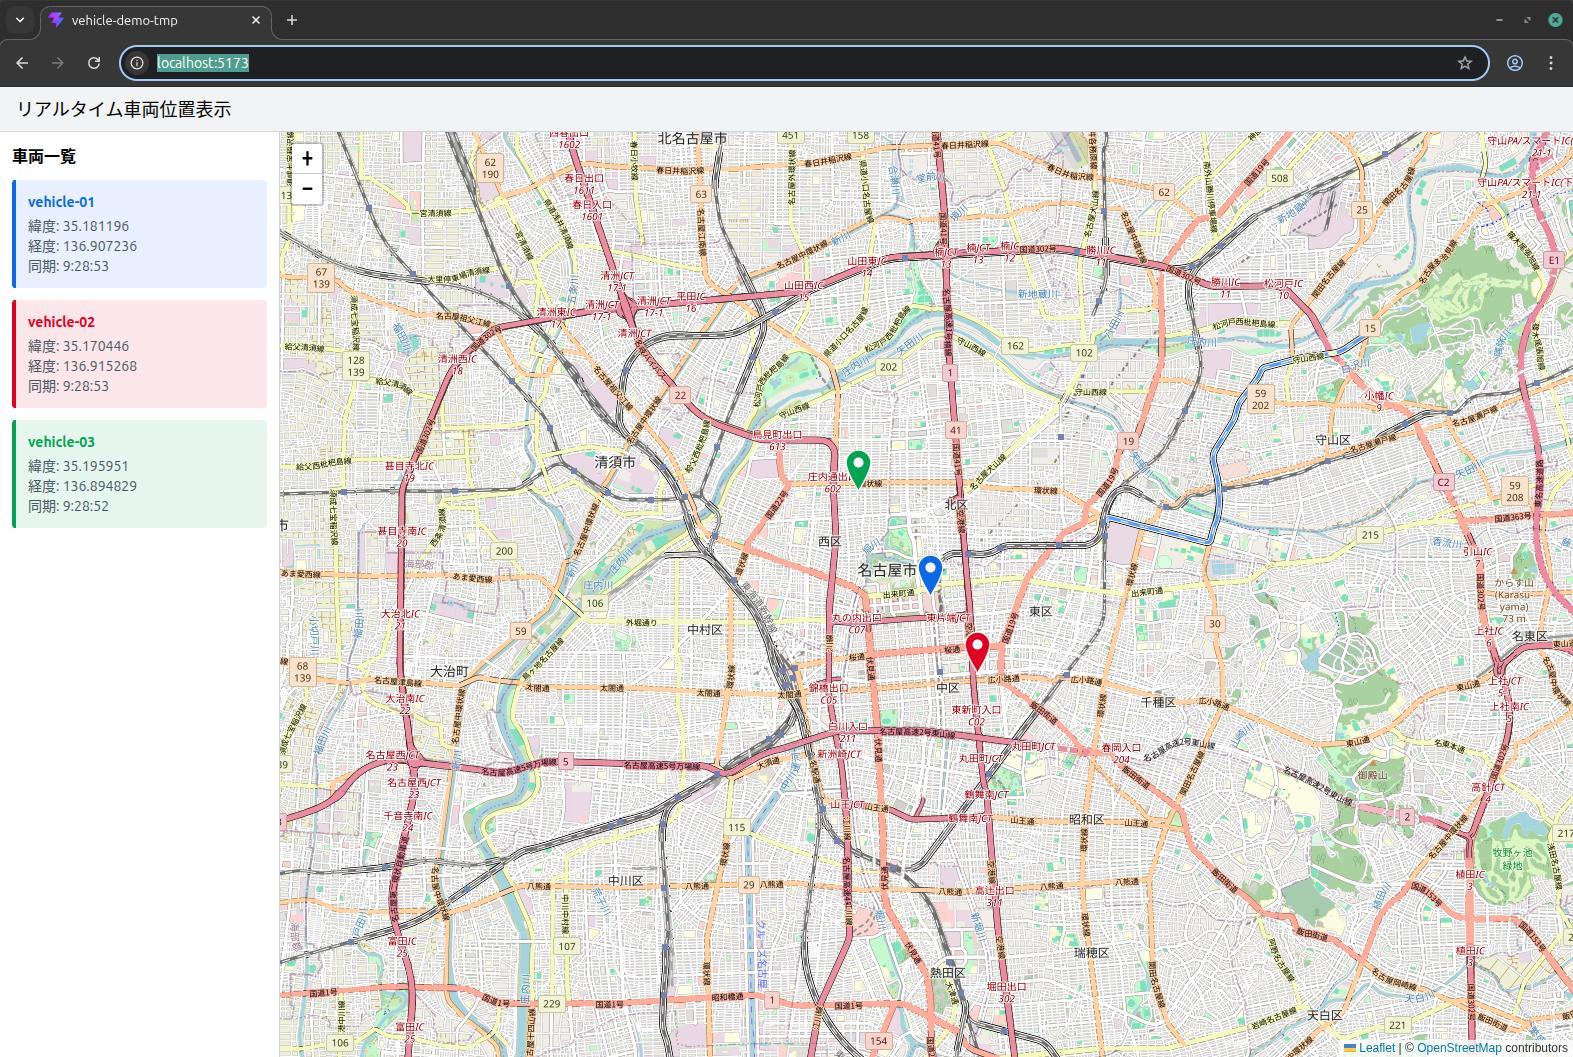
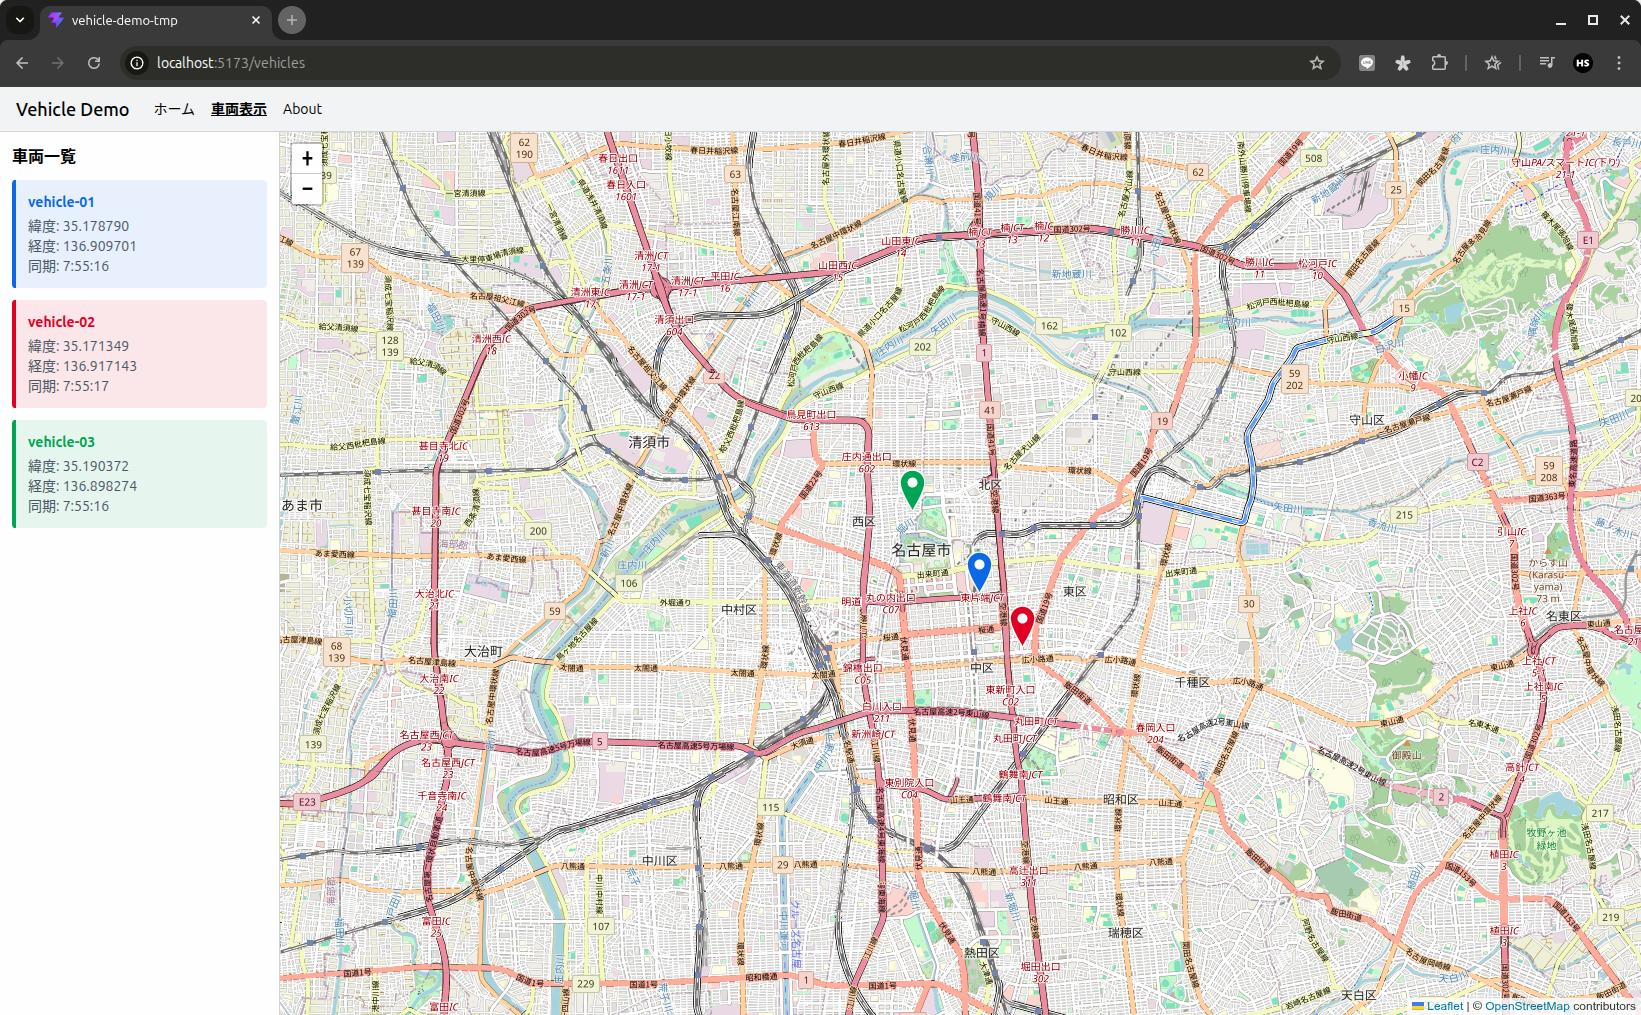
Reactのルーティングとコード分割 学習完了

diff --git a/src/App.tsx b/src/App.tsx
@@ -1,21 +1,36 @@
+import { lazy, Suspense } from "react";
 import { BrowserRouter, Routes, Route, Navigate } from "react-router-dom";
 import NavBar from "./components/NavBar";
 import LandingPage from "./pages/LandingPage";
-import VehiclesPage from "./pages/VehiclesPage";
 import AboutPage from "./pages/AboutPage";
+
+// VehiclesPage のみを遅延ロード対象とする
+const VehiclesPage = lazy(() => import("./pages/VehiclesPage"));
 
 export default function App() {
   return (
     <BrowserRouter>
+      {/* flex-col: 列方向（縦方向）へ子要素を並べよ  */}
       <div className="flex flex-col h-screen">
         <NavBar />
-        <div className="flex-1 overflow-hidden">
-          <Routes>
-            <Route path="/" element={<LandingPage />} />
-            <Route path="/vehicles" element={<VehiclesPage />} />
-            <Route path="/about" element={<AboutPage />} />
-            <Route path="*" element={<Navigate to="/" replace />} />
-          </Routes>
+        {/* flex-1: NavBar以外の残り全高さを占有。overflow-y-auto: エリア内だけでスクロール */}
+        <div className="flex-1 overflow-y-auto">
+          <Suspense
+            fallback={
+              <div className="flex h-full items-center justify-center">
+                Loading...
+              </div>
+            }
+          >
+            <Routes>
+              <Route path="/" element={<LandingPage />} />
+              <Route path="/vehicles" element={<VehiclesPage />} />
+              <Route path="/about" element={<AboutPage />} />
+              {/* 上記以外はすべて / へ
+                  ※ 変なURLを履歴に残さないように /foo を / へ書き換え */}
+              <Route path="*" element={<Navigate to="/" replace />} />
+            </Routes>
+          </Suspense>
         </div>
       </div>
     </BrowserRouter>

diff --git a/src/pages/AboutPage.tsx b/src/pages/AboutPage.tsx
@@ -11,20 +11,27 @@ const techStack = [
 
 export default function AboutPage() {
   return (
+    // max-w-xl 最大幅を xl(約576px) に制限（それ以上広げない）
+    // mx-auto 横方向 中央寄せ
     <div className="max-w-xl mx-auto py-12 px-6">
       <h1 className="text-2xl font-bold text-gray-800 mb-2">About</h1>
       <p className="text-gray-500 text-sm mb-8">
-        このアプリは React / TypeScript のネイティブな使い方を学ぶための学習用デモです。
-        モックサーバーが WebSocket で車両位置を送信し、地図上にリアルタイム表示します。
+        このアプリは React / TypeScript
+        のネイティブな使い方を学ぶための学習用デモです。 モックサーバーが
+        WebSocket で車両位置を送信し、地図上にリアルタイム表示します。
       </p>
-      <h2 className="text-base font-semibold text-gray-700 mb-3">技術スタック</h2>
+      <h2 className="text-base font-semibold text-gray-700 mb-3">
+        技術スタック
+      </h2>
       <ul>
         {techStack.map(({ name, desc }, i) => (
           <li
             key={name}
             className={`flex items-start gap-3 text-sm px-2 py-2 rounded ${i % 2 === 0 ? "bg-gray-200" : ""}`}
           >
-            <span className="font-medium text-gray-800 w-48 shrink-0">{name}</span>
+            <span className="font-medium text-gray-800 w-48 shrink-0">
+              {name}
+            </span>
             <span className="text-gray-500">{desc}</span>
           </li>
         ))}

diff --git a/src/pages/LandingPage.tsx b/src/pages/LandingPage.tsx
@@ -16,6 +16,17 @@ export default function LandingPage() {
           Zustand / WebSocket / Leaflet / React Router を使った SPA デモ
         </p>
       </div>
+
+      {/* ------------------------------------------------------------
+        NavLinkを使わずに buttonを使う理由
+        NavLinkは isActiveを判定するが、ここでは一方通行の画面遷移を要求してるだけなので
+        ボタンで実装が自然
+        --------------------------------------------------------------
+        テキストリンク（青字下線）→ 文章中の補足・参照
+        ボタン                    → アクション（送信・移動・実行）
+        カード・画像              → コンテンツへの導線
+      ---------------------------------------------------------------- */}
+      {/* transition-colors： hover 時の色変更をアニメーション */}
       <button
         onClick={() => navigate("/vehicles")}
         className="px-6 py-3 bg-blue-600 text-white rounded-lg text-sm font-medium hover:bg-blue-700 transition-colors"

diff --git a/src/components/NavBar.tsx b/src/components/NavBar.tsx
@@ -1,6 +1,7 @@
 import { NavLink } from "react-router-dom";
 
 export default function NavBar() {
+  // NavLinkエレメントは 表示中のURLとto先URLを比較し、classNameに渡した関数へ isActive を注入する
   const linkClass = ({ isActive }: { isActive: boolean }) =>
     isActive ? "font-bold underline" : "hover:underline";
 
@@ -8,6 +9,7 @@ export default function NavBar() {
     <header className="px-4 py-2 border-b border-gray-300 bg-gray-100 flex items-center gap-6">
       <span className="text-lg font-medium">Vehicle Demo</span>
       <nav className="flex gap-4 text-sm">
+        {/* end： isActive のデフォルト判定は前方一致（これだと /about も / で一致）これを完全一致へ */}
         <NavLink to="/" end className={linkClass}>
           ホーム
         </NavLink>

diff --git a/SPEC.md b/SPEC.md
@@ -1,8 +1,8 @@
 # リアルタイム車両位置表示アプリ 詳細仕様書
 
 **作成日**: 2026-04-23  
-**更新日**: 2026-04-24  
-**目的**: Zustand / WebSocket / Leaflet の実践学習
+**更新日**: 2026-04-27  
+**目的**: Zustand / WebSocket / Leaflet / React Router / Code Splitting の実践学習
 
 ---
 
@@ -14,6 +14,7 @@
 | ビルドツール              | Vite                         | 8.x                               |
 | 言語                      | TypeScript                   | 6.x                               |
 | 状態管理                  | Zustand                      | 5.x                               |
+| ルーティング              | react-router-dom             | 7.x                               |
 | 地図                      | Leaflet + react-leaflet      | leaflet 1.9.x / react-leaflet 5.x |
 | スタイリング              | Tailwind CSS                 | 4.x                               |
 | WebSocket（クライアント） | ブラウザ標準 `WebSocket` API | -                                 |
@@ -29,11 +30,16 @@ vehicle-demo/
 ├── server/
 │   └── mock-server.ts           # モックWebSocketサーバー
 ├── src/
+│   ├── pages/
+│   │   ├── LandingPage.tsx      # トップページ
+│   │   ├── VehiclesPage.tsx     # 車両表示ページ
+│   │   └── AboutPage.tsx        # 概要ページ
 │   ├── store/
 │   │   └── positionStore.ts     # Zustand store
 │   ├── hooks/
 │   │   └── useVehicleWebSocket.ts
 │   ├── components/
+│   │   ├── NavBar.tsx           # 全ページ共通ヘッダー
 │   │   ├── VehicleMap.tsx       # Leaflet地図
 │   │   └── VehicleList.tsx      # 車両一覧パネル
 │   ├── constants/
@@ -85,11 +91,11 @@ export const VEHICLE_COLORS: Record<string, string> = {
 
 ### 管理車両
 
-| vehicleId  | 初期緯度 | 初期経度  |
-| ---------- | -------- | --------- |
-| vehicle-01 | 35.1815  | 136.9066  |
-| vehicle-02 | 35.1700  | 136.9150  |
-| vehicle-03 | 35.1950  | 136.8950  |
+| vehicleId  | 初期緯度 | 初期経度 |
+| ---------- | -------- | -------- |
+| vehicle-01 | 35.1815  | 136.9066 |
+| vehicle-02 | 35.1700  | 136.9150 |
+| vehicle-03 | 35.1950  | 136.8950 |
 
 （名古屋市周辺）
 
@@ -156,30 +162,92 @@ export function useVehicleWebSocket(): void;
 
 ---
 
-## 8. コンポーネント仕様
+## 8. ルーティング仕様
 
-### 8-1. App.tsx
+### ルート定義
 
-- `useVehicleWebSocket()` をトップレベルで1回呼ぶ（WebSocket接続を確立）
-- Tailwind CSS で以下のレイアウトを描画する
+| パス        | コンポーネント | 説明                                     |
+| ----------- | -------------- | ---------------------------------------- |
+| `/`         | `LandingPage`  | 学習用デモであることを示すランディングページ |
+| `/vehicles` | `VehiclesPage` | リアルタイム車両表示                     |
+| `/about`    | `AboutPage`    | このデモの概要・技術スタック説明         |
+| その他      | `<Navigate>`   | `/` へリダイレクト                       |
+
+### コード分割
+
+- `LandingPage` / `AboutPage` は eager import（軽量なため分割対象外）
+- `VehiclesPage` のみ `React.lazy` で遅延ロード
+  - Leaflet / react-leaflet など重いライブラリを含むため、初回バンドルから除外する効果が大きい
+  - `/vehicles` への初回遷移時にチャンクをフェッチ、再遷移時はキャッシュ済みのため再フェッチなし
+
+---
+
+## 9. コンポーネント仕様
+
+### 9-1. App.tsx
+
+ルーティング定義のみを担う。WebSocket 接続は持たない。
+
+```tsx
+// VehiclesPage のみ遅延ロード
+const VehiclesPage = lazy(() => import("./pages/VehiclesPage"));
+
+<BrowserRouter>
+  <div className="flex flex-col h-screen">
+    <NavBar />
+    <div className="flex-1 overflow-y-auto">
+      <Suspense fallback={<div className="flex h-full items-center justify-center">Loading...</div>}>
+        <Routes>
+          <Route path="/" element={<LandingPage />} />
+          <Route path="/vehicles" element={<VehiclesPage />} />
+          <Route path="/about" element={<AboutPage />} />
+          <Route path="*" element={<Navigate to="/" replace />} />
+        </Routes>
+      </Suspense>
+    </div>
+  </div>
+</BrowserRouter>
+```
+
+- `<Suspense>` は `<Routes>` 全体を包む
+- フォールバックは `/vehicles` への初回遷移時のみ表示される
+
+### 9-2. NavBar.tsx
+
+- 全ページ共通で最上段に表示
+- リンク: `ホーム` / `車両表示` / `About`
+- `<NavLink>` を使用し、現在ページのリンクをアクティブスタイルで強調
+  - アクティブ: 下線 + 文字色変化
+
+### 9-3. LandingPage.tsx
+
+- 「学習用デモ」と明示するシンプルなヒーローセクション
+- 表示内容: タイトル / サブタイトル（使用技術の列挙） / 「車両表示を見る」ボタン（`/vehicles` へ遷移）
+
+### 9-4. AboutPage.tsx
+
+- このプロジェクトの学習目的・技術スタックを簡潔に説明するページ
+- 表示内容: 目的の説明 / 技術スタック一覧（Zustand / WebSocket / Leaflet / React Router）
+
+### 9-5. VehiclesPage.tsx
+
+- `useVehicleWebSocket()` をマウント時に1回呼ぶ
+  - `/vehicles` に遷移したときだけ WebSocket 接続が確立される
+  - `/vehicles` から離脱（アンマウント）すると接続がクリーンアップされる
 
 ```
 ┌──────────────────────────────────────────────────────┐
-│  リアルタイム車両位置表示                               │
-├──────────────────┬───────────────────────────────────┤
 │  VehicleList     │  VehicleMap                       │
 │  （左パネル）     │  （右：地図）                      │
 │  幅: w-70（280px）│  幅: 残り全部（flex-1）            │
 └──────────────────┴───────────────────────────────────┘
 ```
 
-- 外側: `flex flex-col h-screen`
-- ヘッダー: `px-4 py-2 border-b`
-- コンテンツ行: `flex flex-1 overflow-hidden`
+- 外側: `flex h-full`
 - 左パネル (`<aside>`): `w-70 shrink-0 overflow-y-auto border-r`
 - 右エリア (`<main>`): `flex-1`
 
-### 8-2. VehicleList.tsx
+### 9-6. VehicleList.tsx
 
 Zustand の `positions` を `Array.from` で配列化して表示。
 
@@ -199,7 +267,7 @@ Zustand の `positions` を `Array.from` で配列化して表示。
   - カード背景: 車両色 + 透明度（`color + "18"`）
   - 車両ID文字色: 車両色
 
-### 8-3. VehicleMap.tsx
+### 9-7. VehicleMap.tsx
 
 - `react-leaflet` の `MapContainer` / `TileLayer` / `Marker` / `Popup` を使用
 - タイルレイヤー: OpenStreetMap（`https://{s}.tile.openstreetmap.org/{z}/{x}/{y}.png`）
@@ -231,7 +299,7 @@ function createColoredIcon(color: string): L.DivIcon {
 
 ---
 
-## 9. package.json スクリプト
+## 10. package.json スクリプト
 
 ```json
 {
@@ -252,92 +320,29 @@ function createColoredIcon(color: string): L.DivIcon {
 
 ---
 
-## 10. 動作確認の定義（完了条件）
+## 11. 動作確認の定義（完了条件）
 
-| 確認項目         | 期待する動作                                            |
-| ---------------- | ------------------------------------------------------- |
-| 地図表示         | OpenStreetMap タイルが表示される                        |
-| マーカー表示     | 3台分のカラーピンが地図上に表示される                   |
-| リアルタイム移動 | 1秒ごとにマーカー位置が更新される                       |
-| 車両一覧         | 左パネルに3台の座標・同期時刻がリアルタイムで更新される |
-| 色分け           | 車両ごとにピン色とリストカード色が一致している          |
-| クリーンアップ   | ブラウザタブを閉じると WebSocket が切断される           |
+| 確認項目             | 期待する動作                                                         |
+| -------------------- | -------------------------------------------------------------------- |
+| ルーティング         | `/` / `/vehicles` / `/about` それぞれのページが表示される           |
+| 不正URL              | 未定義パスは `/` へリダイレクトされる                               |
+| ナビゲーション       | NavBar の現在ページリンクがアクティブスタイルで強調される           |
+| コード分割           | 初回ロード時 Network タブに VehiclesPage チャンクが含まれない       |
+| 遅延ロード           | `/vehicles` 初回遷移時に VehiclesPage チャンクがフェッチされる      |
+| WebSocket 接続       | `/vehicles` 遷移時に WebSocket が接続される                         |
+| WebSocket 切断       | `/vehicles` から離脱すると WebSocket が切断される                   |
+| 地図表示             | OpenStreetMap タイルが表示される                                    |
+| マーカー表示         | 3台分のカラーピンが地図上に表示される                               |
+| リアルタイム移動     | 1秒ごとにマーカー位置が更新される                                   |
+| 車両一覧             | 左パネルに3台の座標・同期時刻がリアルタイムで更新される             |
+| 色分け               | 車両ごとにピン色とリストカード色が一致している                      |
 
 ---
 
-## 11. スコープ外（今回実装しない）
+## 12. スコープ外（今回実装しない）
 
 - WebSocket 再接続ロジック
-- エラー画面・ローディング表示
+- エラー画面
 - 車両の走行履歴（軌跡）表示
 - 認証・セキュリティ
 - テスト
-
----
-
-## 12. ルーティング仕様（React Router v6）
-
-### 目的
-
-React Router v6 の基本パターンを実践学習する。
-
-### 使用ライブラリ
-
-- `react-router-dom` v7.x
-
-### ルート定義
-
-| パス        | コンポーネント    | 説明                                  |
-| ----------- | ---------------- | ------------------------------------- |
-| `/`         | `LandingPage`    | 学習用デモであることを示すランディングページ |
-| `/vehicles` | 既存の車両表示   | 現在のトップページをそのまま移動        |
-| `/about`    | `AboutPage`      | このデモの概要・技術スタック説明        |
-| その他      | `<Navigate>`     | `/` へリダイレクト                    |
-
-### ナビゲーションバー（`NavBar.tsx`）
-
-- 全ページ共通で最上段に表示
-- リンク: `ホーム` / `車両表示` / `About`
-- `<NavLink>` を使用し、現在ページのリンクをアクティブスタイルで強調
-  - アクティブ: 下線 + 文字色変化（`aria-[aria-current=page]` または `isActive` コールバック）
-
-### コンポーネント構成
-
-```
-src/
-├── pages/
-│   ├── LandingPage.tsx   # 新規
-│   └── AboutPage.tsx     # 新規
-├── components/
-│   ├── NavBar.tsx        # 新規（全ページ共通ヘッダー）
-│   ├── VehicleMap.tsx    # 既存（変更なし）
-│   └── VehicleList.tsx   # 既存（変更なし）
-└── App.tsx               # ルート定義を追加
-```
-
-### App.tsx の構造
-
-```tsx
-<BrowserRouter>
-  <NavBar />
-  <Routes>
-    <Route path="/" element={<LandingPage />} />
-    <Route path="/vehicles" element={<VehiclesPage />} />
-    <Route path="/about" element={<AboutPage />} />
-    <Route path="*" element={<Navigate to="/" replace />} />
-  </Routes>
-</BrowserRouter>
-```
-
-- 車両表示ページのレイアウト（`flex flex-col h-screen`）は `/vehicles` ルート内で完結させる
-- NavBar の高さ分、車両表示ページの `h-screen` を調整する（`h-[calc(100vh-NavBarの高さ)]` など）
-
-### LandingPage 仕様
-
-- 「学習用デモ」と明示するシンプルなヒーローセクション
-- 表示内容: タイトル / サブタイトル（使用技術の列挙） / 「車両表示を見る」ボタン（`/vehicles` へ遷移）
-
-### AboutPage 仕様
-
-- このプロジェクトの学習目的・技術スタックを簡潔に説明するページ
-- 表示内容: 目的の説明 / 技術スタック一覧（Zustand / WebSocket / Leaflet / React Router）
